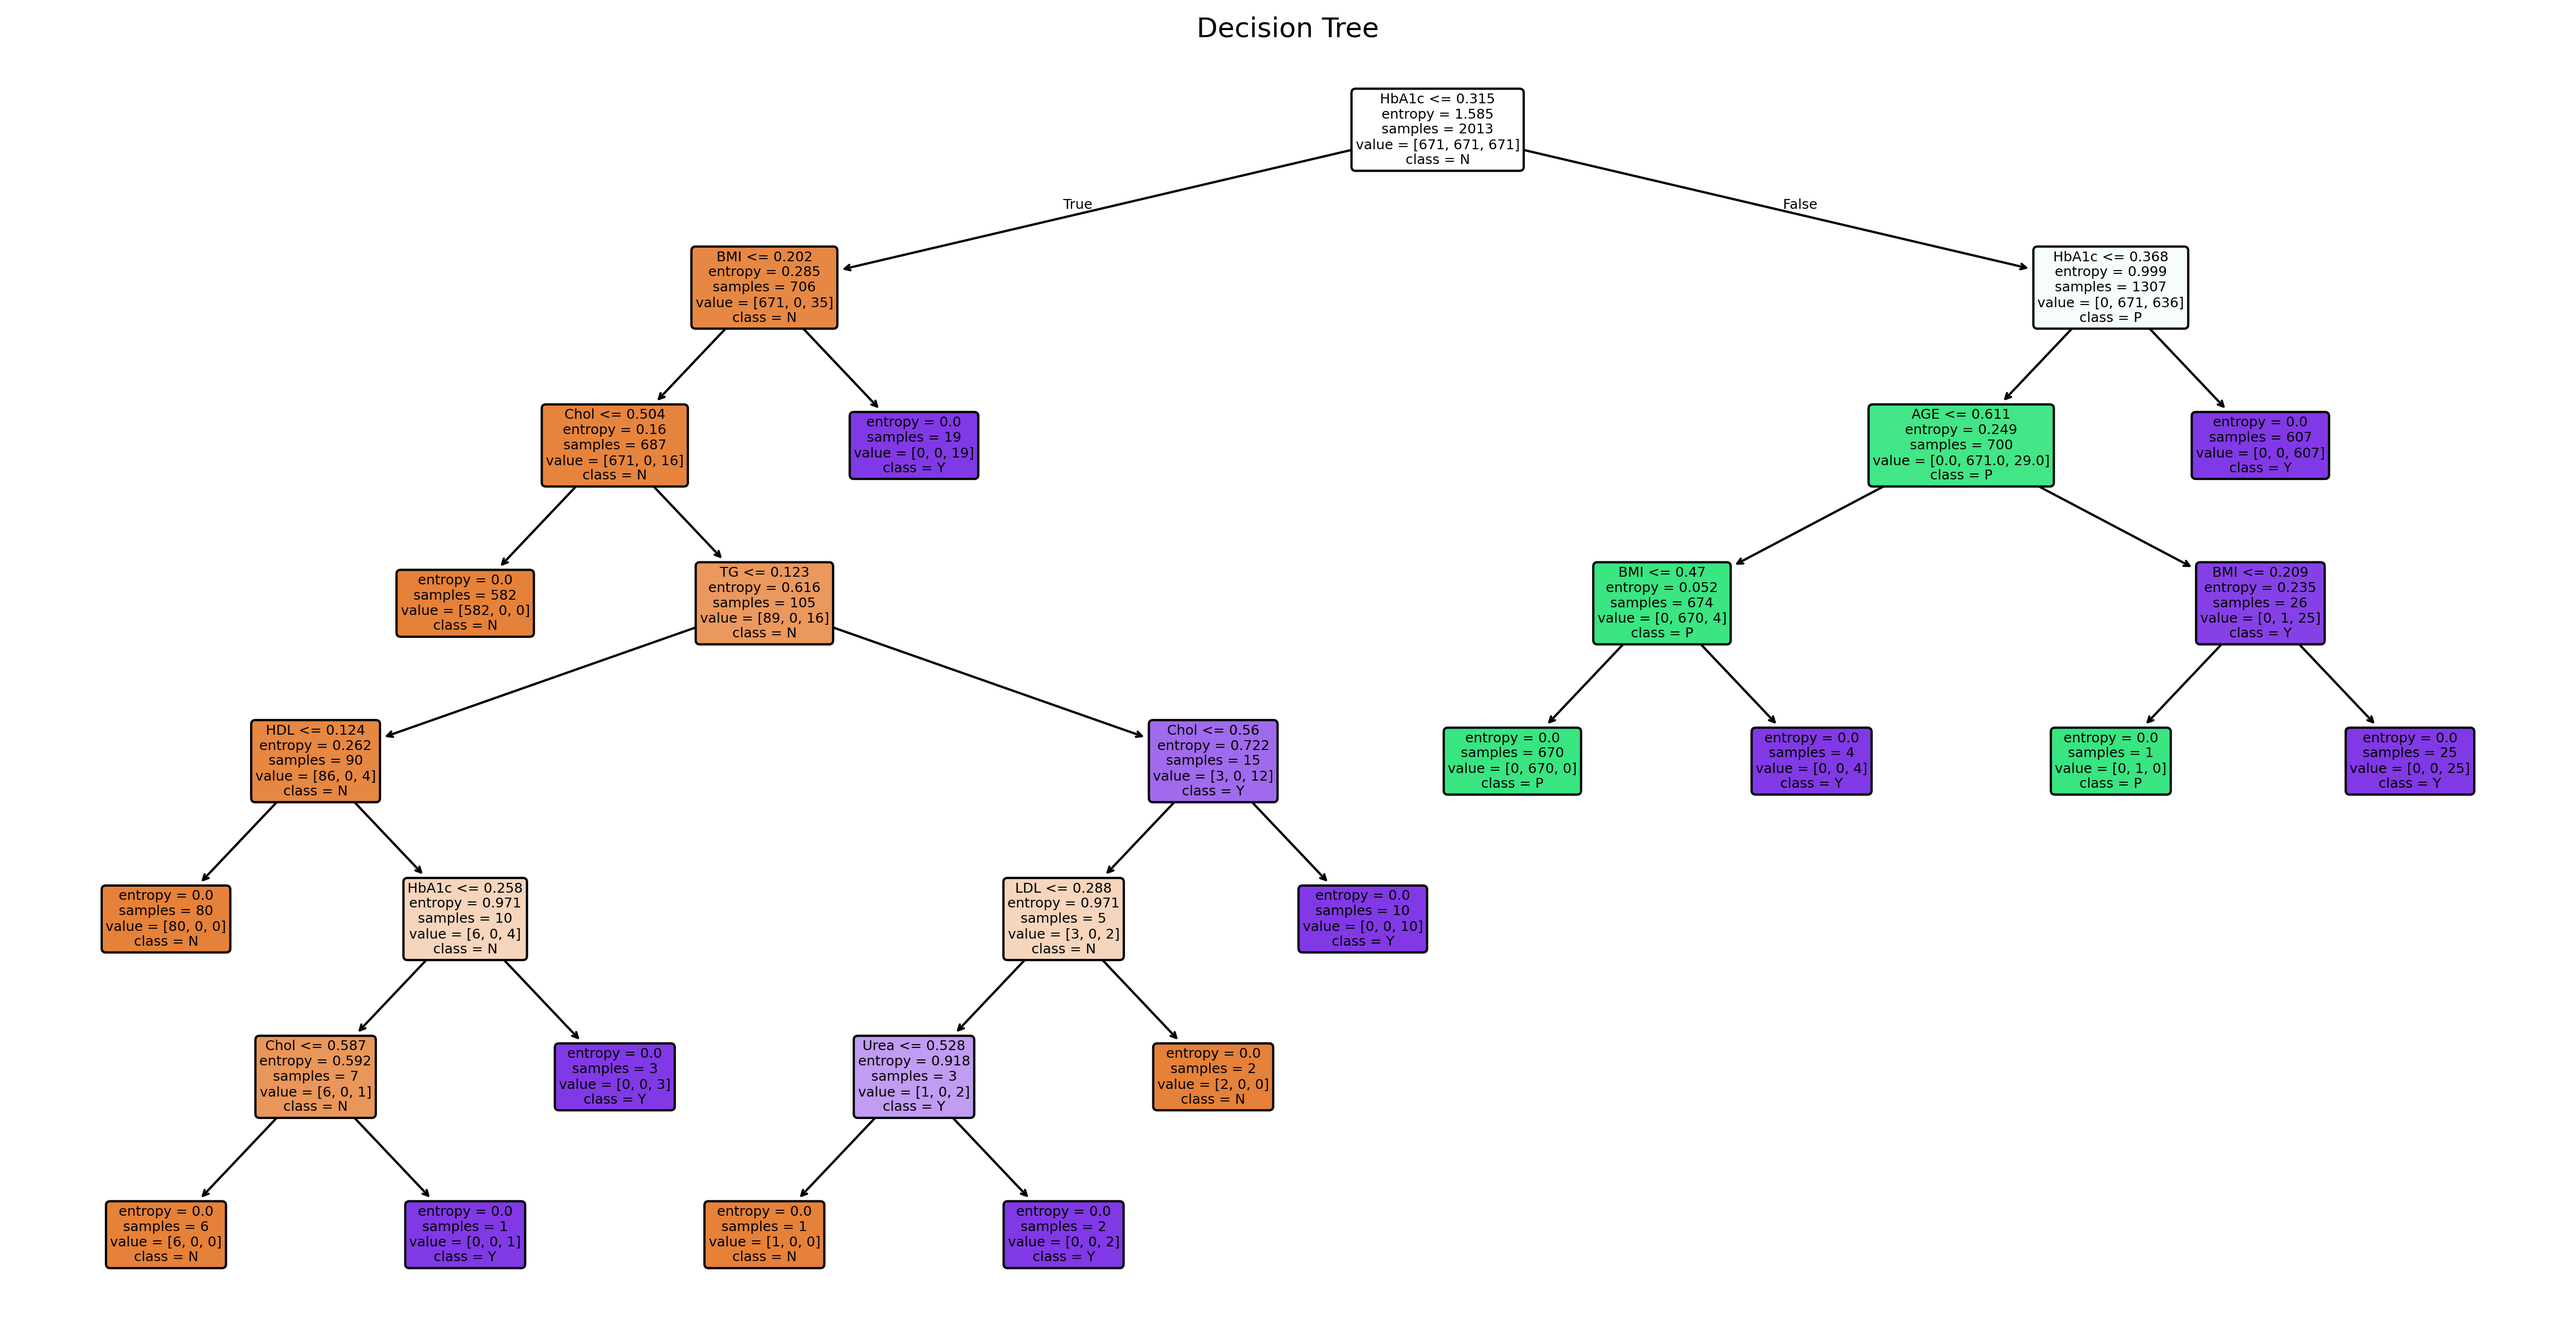
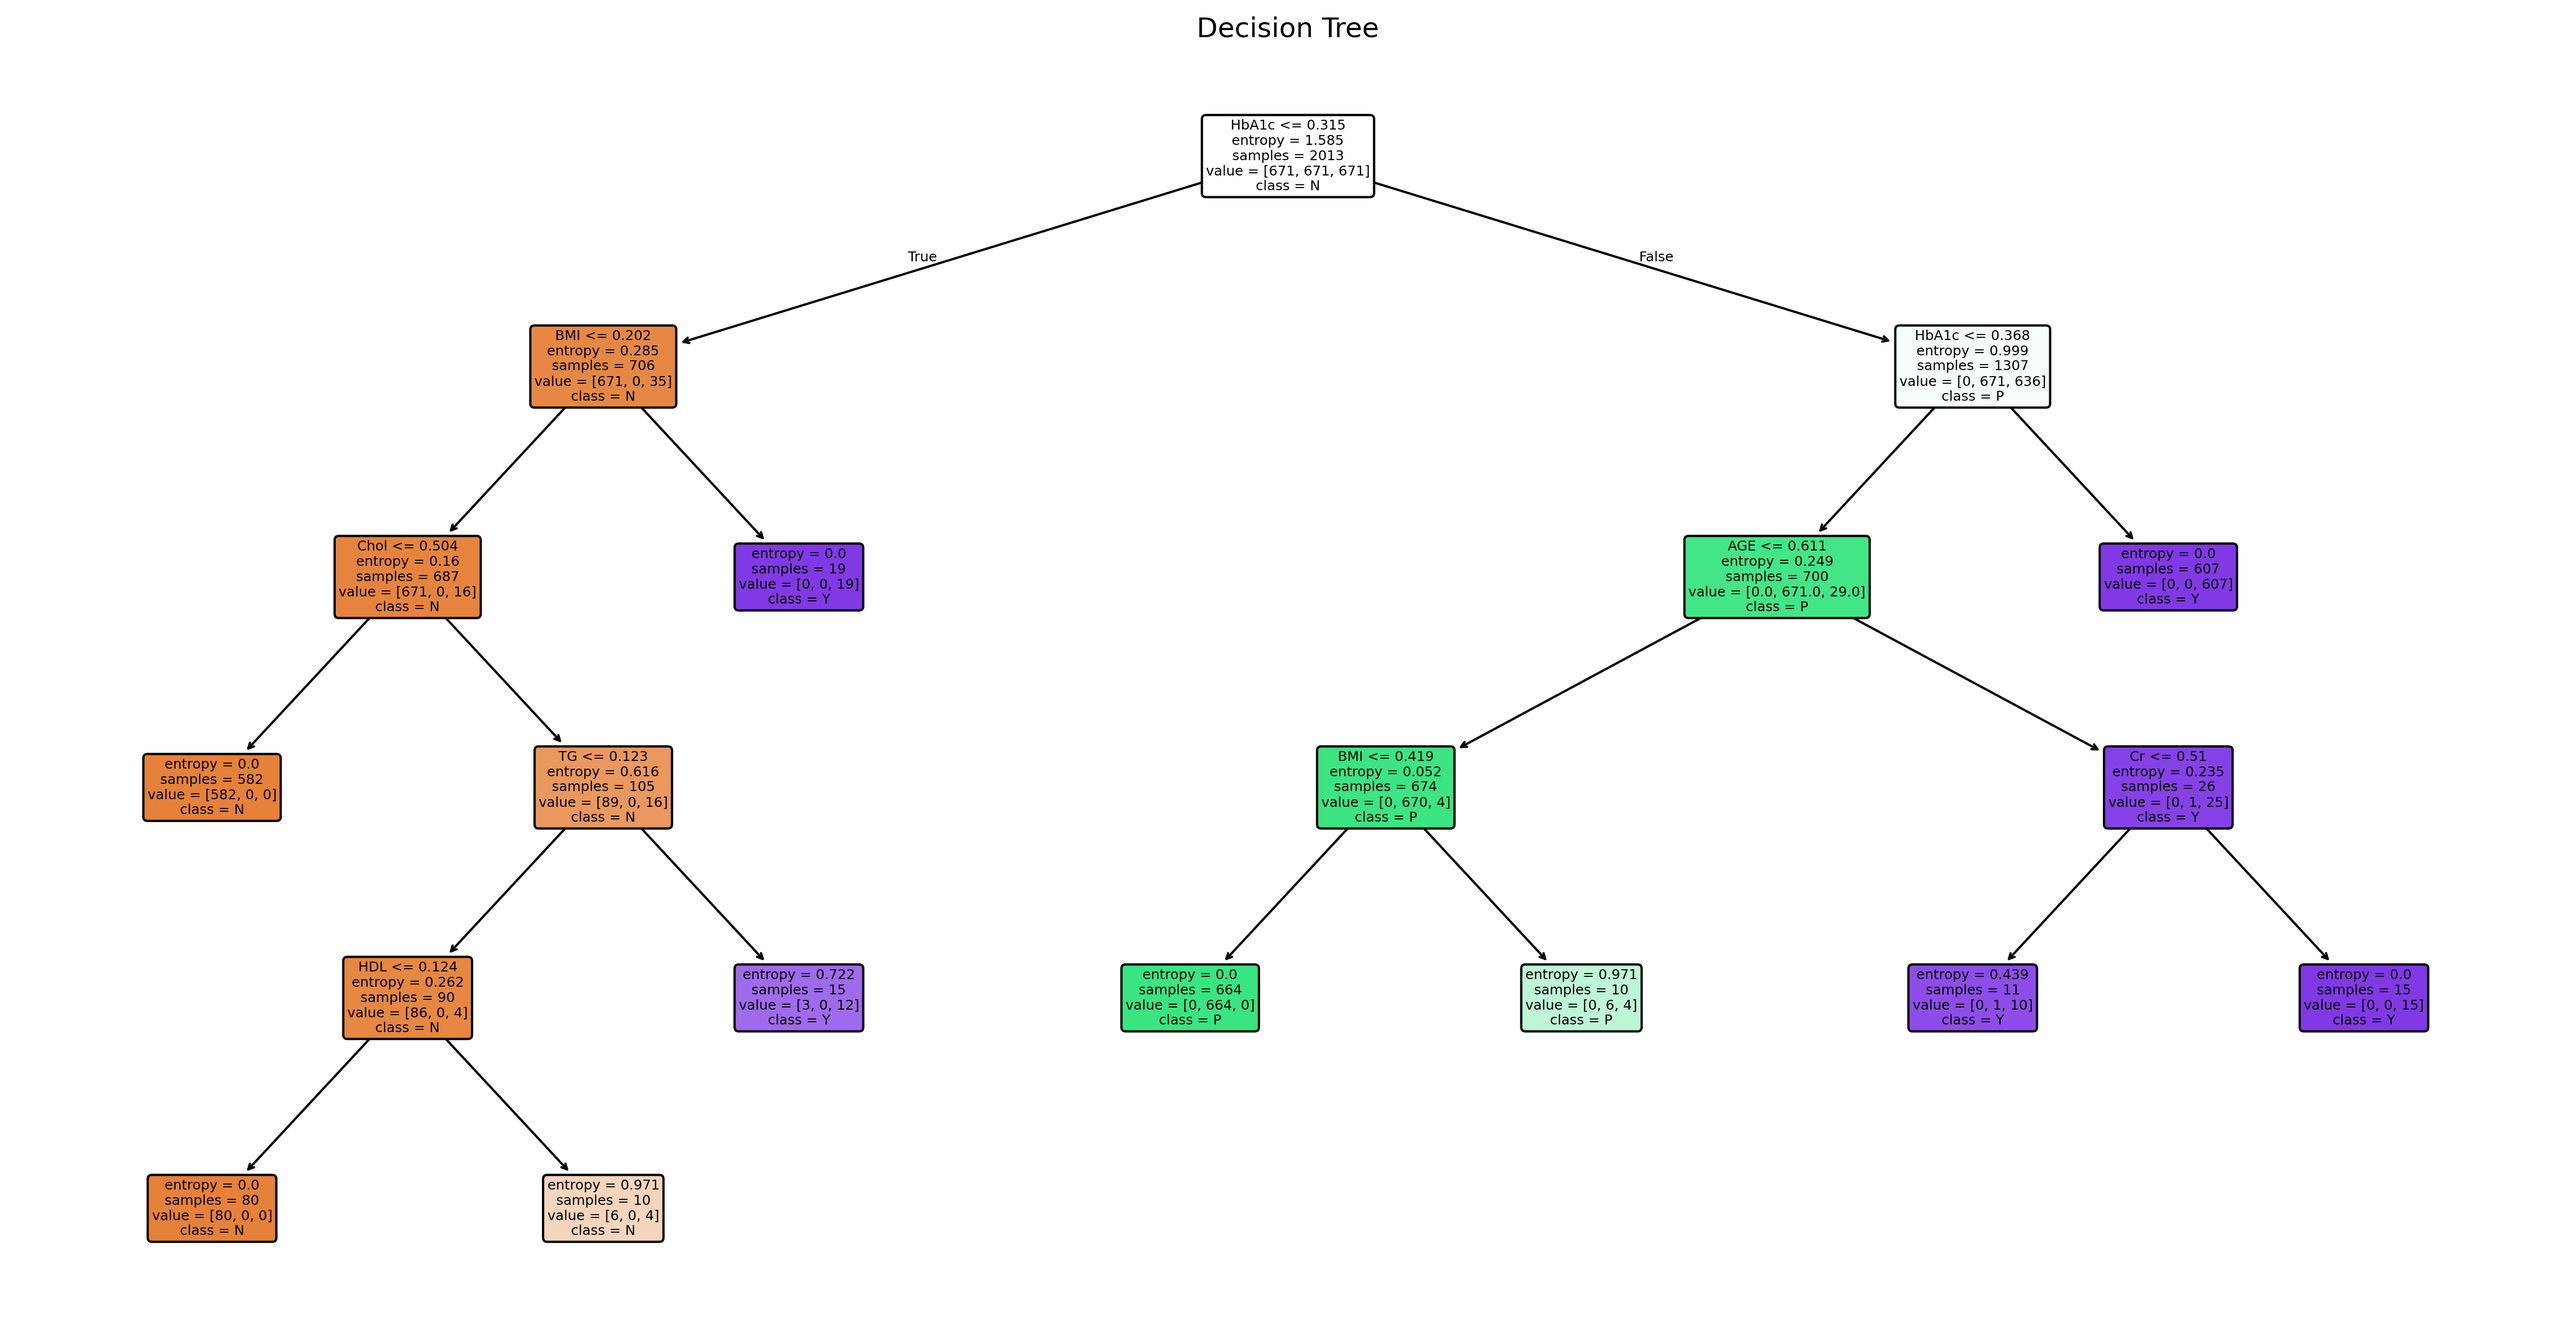
Update Decision Tree parameters and fix prediction input for confusion matrix

diff --git a/project.py b/project.py
@@ -163,7 +163,7 @@ print("Step #6: Machine Learning Models")
 print("="*45 + "\n")
 
 models = {
-    "Decision Tree": DecisionTreeClassifier(criterion="entropy", random_state=42), 
+    "Decision Tree": DecisionTreeClassifier(criterion="entropy", min_samples_leaf=10, random_state=42), 
     "Naive Bayes": GaussianNB(),
     "Logistec Regression": LogisticRegression(max_iter=1000, random_state=42)
 }
@@ -227,7 +227,7 @@ plt.show()
 
 #Confusion Matrix for the best model
 winning_model = models[best_model_name]
-y_pred_best = winning_model.predict(x_test)
+y_pred_best = winning_model.predict(x_test_scaled)
 cm = confusion_matrix(y_test, y_pred_best)
 plt.figure(figsize=(8,6))
 sns.heatmap(cm, annot=True, fmt='d', cmap='Blues', xticklabels=list(class_mapping.values()),yticklabels=list(class_mapping.values()))
